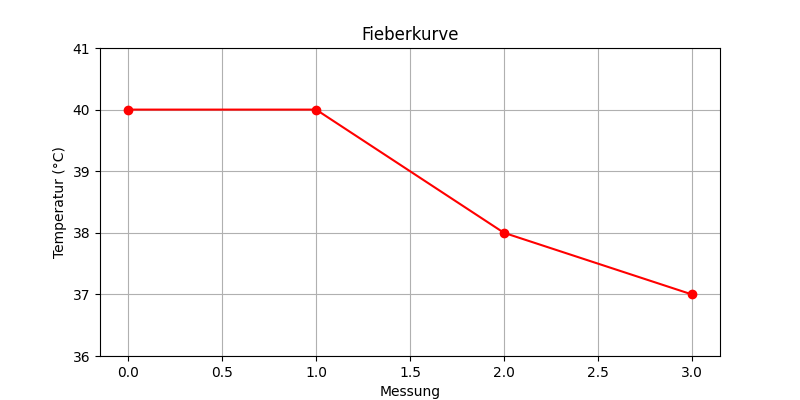
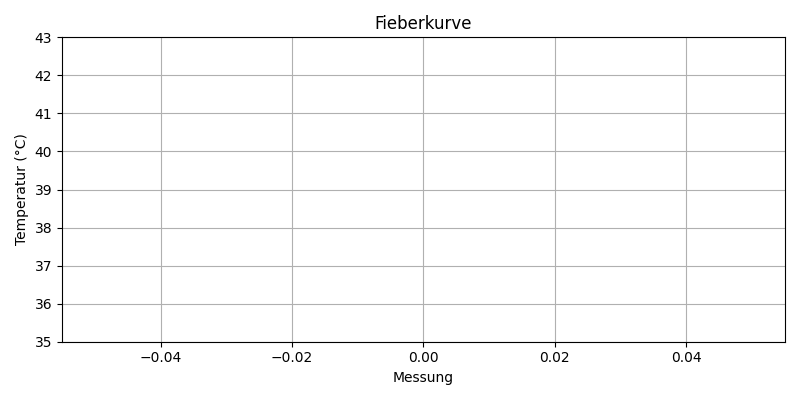
Added database integration: - Replaces text file with SQlite database - Updated Fieberkurve to use database values - Added clear function to delete database entries

diff --git a/templates/index.html b/templates/index.html
@@ -9,32 +9,37 @@
     </div>
     {% endif %}
     {% endwith %}
+
     <form method="POST">
         <label for="temperature">Temperatur eingeben:</label>
         <input type="text" id="temperature" name="temperature" required>
         <button type="submit">Hinzufügen</button>
     </form>
+
     <form method="POST" action="/clear">
-        <button type="submit" style="background-color: red; color: white;">Alle Temperaturen löschen</button>
+        <button type="submit" style="background-color: red; color: white;">Alle Messungen löschen</button>
     </form>
-    <h2>Gespeicherte Temperaturen:</h2>
-    <table>
+
+    <h2>Gespeicherte Messungen:</h2>
+    <table border="1">
         <thead>
             <tr>
+                <th>ID</th>
                 <th>Temperatur (°C)</th>
                 <th>Uhrzeit</th>
             </tr>
         </thead>
         <tbody>
-            {% for temp, timestamp in temperatures %}
+            {% for measurement in measurements %}
             <tr>
-                <td>{{ temp }}</td>
-                <td>{{ timestamp }}</td>
+                <td>{{ measurement.id }}</td>
+                <td>{{ measurement.temperature }}</td>
+                <td>{{ measurement.timestamp }}</td>
             </tr>
             {% endfor %}
         </tbody>
     </table>
+
     <h2>Fieberkurve:</h2>
     <img src="/chart" alt="Fieberkurve">
 </body>
-

diff --git a/app.py b/app.py
@@ -4,85 +4,28 @@ import datetime  # Für Zeitstempel
 matplotlib.use("Agg")  # Headless-Backend für Matplotlib
 import matplotlib.pyplot as plt
 import os
+from flask_sqlalchemy import SQLAlchemy
 
 app = Flask(__name__)
 app.secret_key = "geheimes_schluesselwort"
 
-# Datei für die Speicherung der Temperaturen
-DATA_FILE = "temperatures.txt"
+# Datenbankkonfiguration
+app.config['SQLALCHEMY_DATABASE_URI'] = 'sqlite:///data.db'
+app.config['SQLALCHEMY_TRACK_MODIFICATIONS'] = False
 
-def save_temperatures(data):
-    """Speichert die Temperaturen und Zeitstempel in einer Datei."""
-    print(f"[save_temperatures] Speichere in Datei: {data}")
-    with open(DATA_FILE, "w") as file:
-        for temp, timestamp in data:
-            file.write(f"{temp},{timestamp}\n")
+db = SQLAlchemy(app)
 
-def load_temperatures():
-    """Lädt die Temperaturen und Zeitstempel aus einer Datei."""
-    data = []
-    if os.path.exists(DATA_FILE):
-        with open(DATA_FILE, "r") as file:
-            for line in file:
-                if "," in line:  # Überprüfen, ob die Zeile ein Komma enthält
-                    parts = line.strip().split(",")
-                    try:
-                        temp = float(parts[0])
-                        timestamp = parts[1]
-                        data.append((temp, timestamp))
-                    except (ValueError, IndexError):
-                        print(f"[load_temperatures] Ungültige Zeile übersprungen: {line.strip()}")
-                else:
-                    print(f"[load_temperatures] Ungültige Zeile ohne Komma: {line.strip()}")
-    print(f"[load_temperatures] Geladene Daten aus Datei: {data}")
-    return data
+# Datenbank-Modell
+class Temperature(db.Model):
+    id = db.Column(db.Integer, primary_key=True)
+    temperature = db.Column(db.Float, nullable=False)
+    timestamp = db.Column(db.String, nullable=False)
 
+def create_chart():
+    """Erstellt ein Fieberkurven-Diagramm aus den aktuellen Daten der Datenbank."""
+    data = [entry.temperature for entry in Temperature.query.all()]
+    timestamps = [entry.timestamp for entry in Temperature.query.all()]
 
-# Temporärer Speicher für die Temperaturen
-temperatures = []
-
-@app.route("/", methods=["GET", "POST"])
-def home():
-    global temperatures
-    temperatures = load_temperatures()  # Datei immer neu laden
-    print(f"[home] Nach Laden der Datei: {temperatures}")
-
-    if request.method == "POST":
-        temp = request.form.get("temperature")
-        print(f"[home] Eingabe erhalten: {temp}")
-        if temp:
-            try:
-                temp = float(temp)
-                if 35 <= temp <= 43:
-                    timestamp = datetime.datetime.now().strftime("%Y-%m-%d %H:%M:%S")  # Zeitstempel erstellen
-                    temperatures.append((temp, timestamp))
-                    save_temperatures(temperatures)
-                    create_chart([t[0] for t in temperatures])  # Nur Temperaturen für das Diagramm
-                    print(f"[home] Nach Hinzufügen: {temperatures}")
-                else:
-                    flash(f"Ungültiger Wert: {temp}°C. Bitte nur Werte zwischen 35 und 43 eingeben.")
-            except ValueError:
-                flash("Ungültige Eingabe. Bitte eine Zahl eingeben.")
-
-    return render_template("index.html", temperatures=temperatures)
-
-from flask import Flask, render_template, request, send_file, flash, redirect, url_for
-# Der Rest deines Imports bleibt gleich
-
-@app.route("/clear", methods=["POST"])
-def clear_data():
-    """Löscht alle gespeicherten Temperaturen."""
-    global temperatures
-    print(f"[clear_data] Vor dem Löschen: {temperatures}")
-    temperatures = []  # Liste zurücksetzen
-    save_temperatures(temperatures)  # Datei leeren
-    print(f"[clear_data] Nach dem Löschen: {temperatures}")
-    flash("Alle gespeicherten Daten wurden gelöscht.")
-    return redirect(url_for("home"))  # Leitet zurück auf die Startseite
-
-
-def create_chart(data):
-    """Erstellt ein Fieberkurven-Diagramm."""
     plt.figure(figsize=(8, 4))
     plt.plot(data, marker="o", color="red", linestyle="-")
     plt.title("Fieberkurve")
@@ -92,6 +35,7 @@ def create_chart(data):
     # Dynamische y-Achse mit Puffer
     if data:
         plt.ylim(min(data) - 1, max(data) + 1)
+        plt.xticks(range(len(timestamps)), timestamps, rotation=45, fontsize=8)  # Zeitstempel als x-Achse
     else:
         plt.ylim(35, 43)
 
@@ -100,8 +44,40 @@ def create_chart(data):
     # Speicher das Diagramm
     chart_path = os.path.join("static", "chart.png")
     os.makedirs("static", exist_ok=True)
+    plt.tight_layout()  # Verhindert Überlappung der Achsentexte
     plt.savefig(chart_path)
     plt.close()
+
+@app.route("/", methods=["GET", "POST"])
+def home():
+    if request.method == "POST":
+        temp = request.form.get("temperature")
+        if temp:
+            try:
+                temp = float(temp)
+                if 35 <= temp <= 43:
+                    timestamp = datetime.datetime.now().strftime('%Y-%m-%d %H:%M:%S')
+                    new_measurement = Temperature(temperature=temp, timestamp=timestamp)
+                    db.session.add(new_measurement)
+                    db.session.commit()
+                    create_chart()  # Aktualisiere das Diagramm
+                    flash("Temperatur erfolgreich hinzugefügt!")
+                else:
+                    flash(f"Ungültiger Wert: {temp}°C. Bitte nur Werte zwischen 35 und 43 eingeben.")
+            except ValueError:
+                flash("Ungültige Eingabe. Bitte eine Zahl eingeben.")
+
+    # Daten aus der Datenbank abrufen
+    measurements = Temperature.query.all()
+    return render_template("index.html", measurements=measurements)
+
+@app.route("/clear", methods=["POST"])
+def clear_data():
+    db.session.query(Temperature).delete()
+    db.session.commit()
+    create_chart()  # Aktualisiere das Diagramm
+    flash("Alle Daten gelöscht!")
+    return redirect("/")
 
 @app.route("/chart")
 def get_chart():
@@ -109,4 +85,7 @@ def get_chart():
     return send_file(os.path.join("static", "chart.png"), mimetype="image/png")
 
 if __name__ == "__main__":
+    with app.app_context():
+        db.create_all()  # Erstelle die Datenbank, falls sie noch nicht existiert
+        create_chart()  # Initiales Diagramm erstellen
     app.run(debug=True, port=8080)

diff --git a/models.py b/models.py
@@ -1,0 +1,8 @@
+from flask_sqlalchemy import SQLAlchemy
+
+db = SQLAlchemy()
+
+class Measurement(db.Model):
+    id = db.Column(db.Integer, primary_key=True)
+    temperature = db.Column(db.Float, nullable=False)
+    timestamp = db.Column(db.String, nullable=False)
